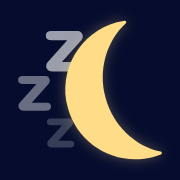
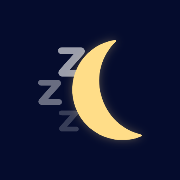
deploy: e6a53826247514a43d7b74da40eb6a30d901aab3

Changed region(s): [[0.0833, 0.1111, 0.9167, 0.9167], [0.6389, 0.6667, 0.6667, 0.6944]]

diff --git a/sw.js b/sw.js
@@ -1,1 +1,1 @@
-if(!self.define){let e,i={};const n=(n,s)=>(n=new URL(n+".js",s).href,i[n]||new Promise((i=>{if("document"in self){const e=document.createElement("script");e.src=n,e.onload=i,document.head.appendChild(e)}else e=n,importScripts(n),i()})).then((()=>{let e=i[n];if(!e)throw new Error(`Module ${n} didn’t register its module`);return e})));self.define=(s,r)=>{const t=e||("document"in self?document.currentScript.src:"")||location.href;if(i[t])return;let o={};const f=e=>n(e,t),l={module:{uri:t},exports:o,require:f};i[t]=Promise.all(s.map((e=>l[e]||f(e)))).then((e=>(r(...e),o)))}}define(["./workbox-c1760cce"],(function(e){"use strict";self.skipWaiting(),e.clientsClaim(),e.precacheAndRoute([{url:"assets/index.30e3af02.js",revision:null},{url:"assets/index.e4036c80.css",revision:null},{url:"index.html",revision:"8160c4fda39af558b81d04a7f4f47717"},{url:"favicon.svg",revision:"635824e8d11d8e8fb7524693e827b4b4"},{url:"pwa-192x192.png",revision:"3449ee69a966b9a1615af24261b290f8"},{url:"pwa-512x512.png",revision:"5e354afee02e9d5baad0852a2eef773e"},{url:"manifest.webmanifest",revision:"9055937f4bc1cea12953e1f2275a921b"}],{}),e.cleanupOutdatedCaches(),e.registerRoute(new e.NavigationRoute(e.createHandlerBoundToURL("index.html")))}));
+if(!self.define){let e,i={};const n=(n,s)=>(n=new URL(n+".js",s).href,i[n]||new Promise((i=>{if("document"in self){const e=document.createElement("script");e.src=n,e.onload=i,document.head.appendChild(e)}else e=n,importScripts(n),i()})).then((()=>{let e=i[n];if(!e)throw new Error(`Module ${n} didn’t register its module`);return e})));self.define=(s,r)=>{const t=e||("document"in self?document.currentScript.src:"")||location.href;if(i[t])return;let o={};const c=e=>n(e,t),l={module:{uri:t},exports:o,require:c};i[t]=Promise.all(s.map((e=>l[e]||c(e)))).then((e=>(r(...e),o)))}}define(["./workbox-c1760cce"],(function(e){"use strict";self.skipWaiting(),e.clientsClaim(),e.precacheAndRoute([{url:"assets/index.30e3af02.js",revision:null},{url:"assets/index.e4036c80.css",revision:null},{url:"index.html",revision:"8160c4fda39af558b81d04a7f4f47717"},{url:"favicon.svg",revision:"635824e8d11d8e8fb7524693e827b4b4"},{url:"pwa-192x192.png",revision:"b4c839be200af0eb3ce9536c4bb2c28b"},{url:"pwa-512x512.png",revision:"e0719a83c7fbf77ca9b4418b7670a31d"},{url:"manifest.webmanifest",revision:"9055937f4bc1cea12953e1f2275a921b"}],{}),e.cleanupOutdatedCaches(),e.registerRoute(new e.NavigationRoute(e.createHandlerBoundToURL("index.html")))}));
